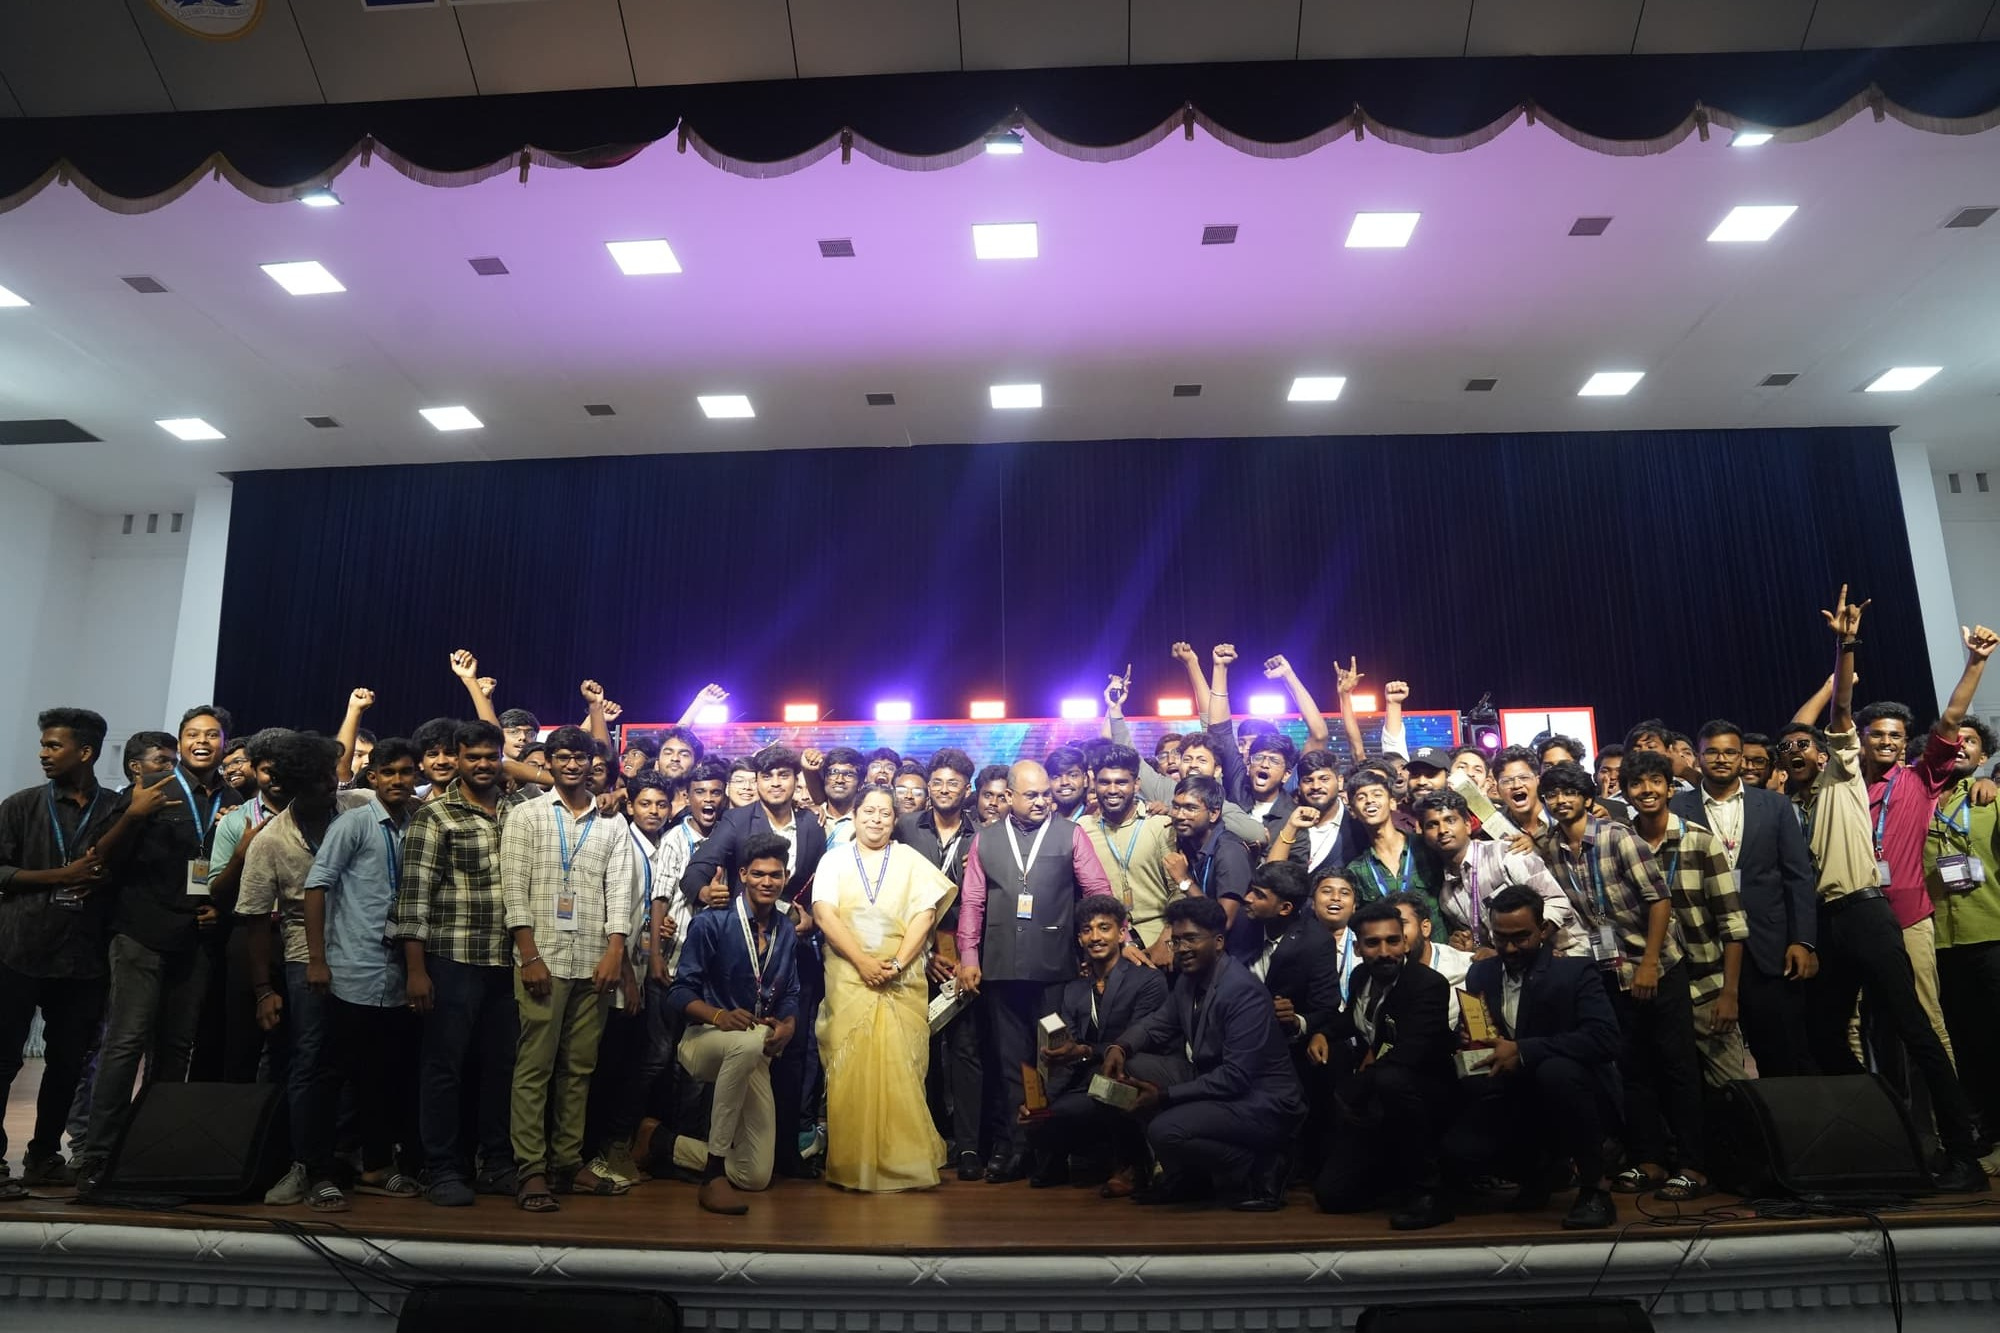
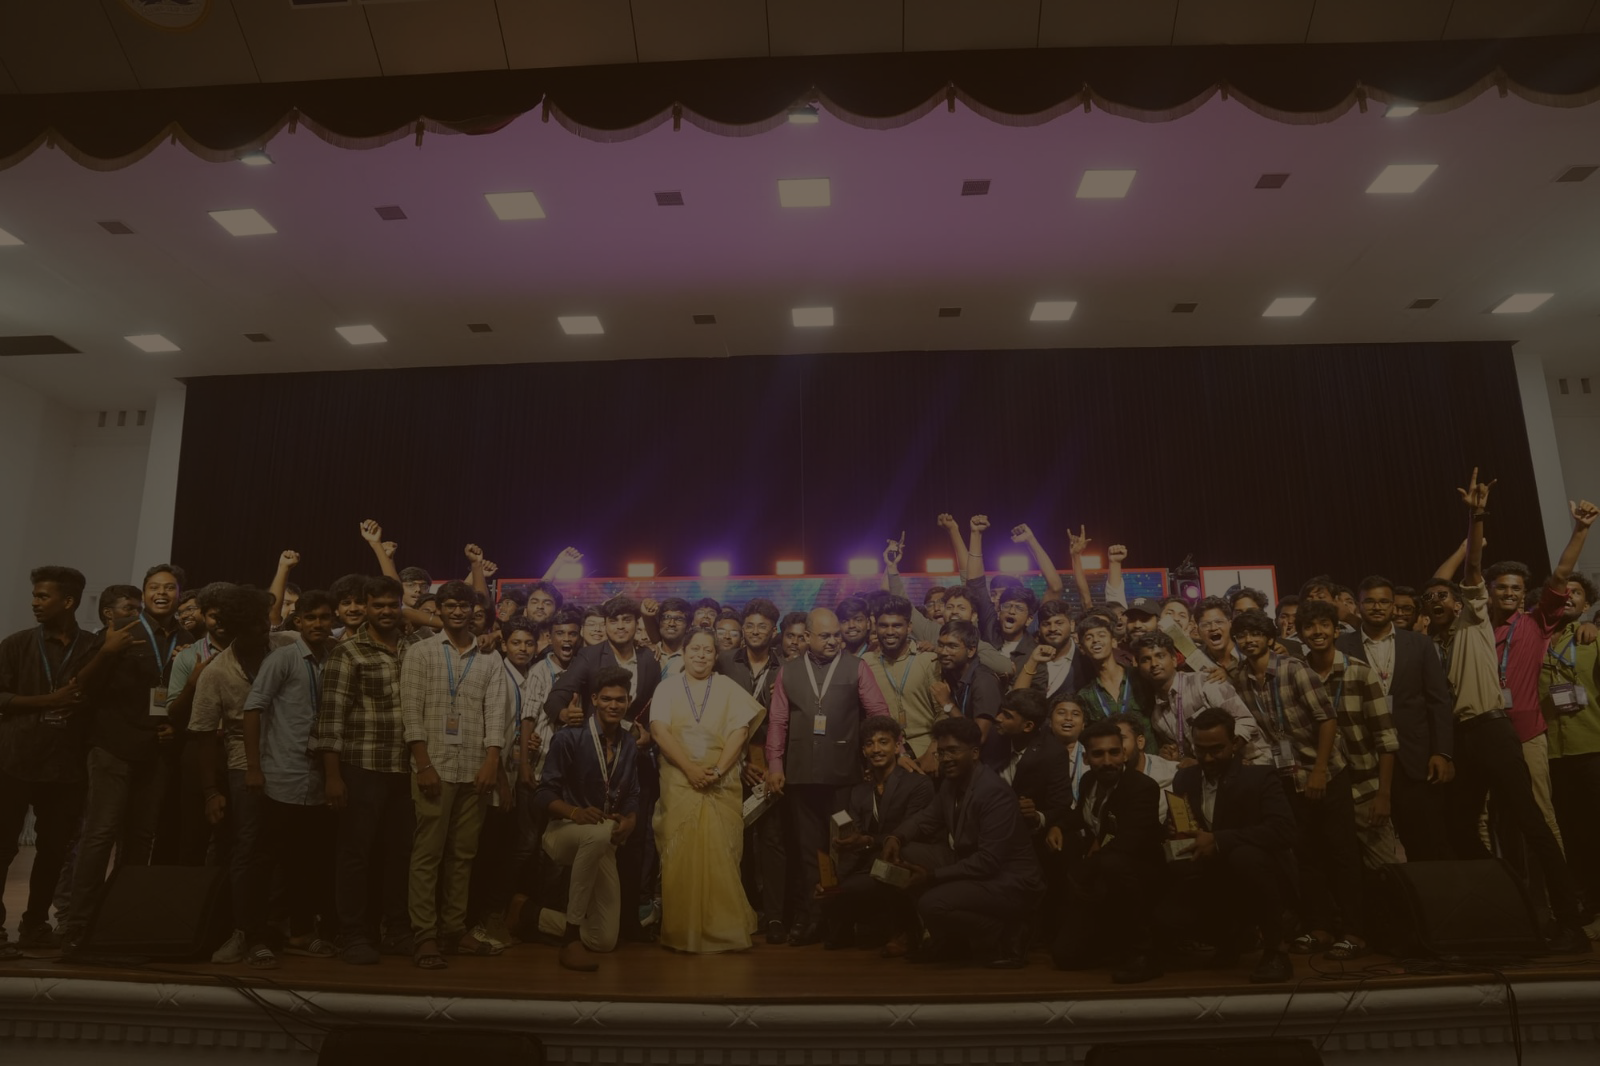
photot

diff --git a/app/gallery/GalleryClient.tsx b/app/gallery/GalleryClient.tsx
@@ -2,6 +2,7 @@
 
 import { useEffect, useState } from "react";
 import { motion, useScroll, useTransform } from "framer-motion";
+import Image from "next/image";
 import { GalleryHorizontal } from "lucide-react";
 import { BentoGalleryGrid } from "@/components/ui/bento-gallery-grid";
 import { sessionShuffle } from "@/lib/sessionShuffle";
@@ -29,9 +30,26 @@ export function GalleryClient({ initialImages }: { initialImages: string[] }) {
     <div className="w-full snap-y snap-mandatory selection:bg-[#C9A24D]/30 selection:text-[#F1EEE8]">
       {/* ================= HERO SECTION ================= */}
       <section className="h-screen w-full flex items-center justify-center text-center bg-[#1A1A1A] text-[#F1EEE8] snap-start snap-always relative overflow-hidden rounded-b-[4rem] shadow-[0_0_50px_rgba(201,162,77,0.1)] z-20 border-b border-[#8C6A3D]/30">
+
+        {/* BACKGROUND IMAGE */}
+        <div className="absolute inset-0 z-0">
+          <Image
+            src="/BackgroundImages/Gallery.png"
+            alt="Milan Gallery Background"
+            fill
+            className="object-cover opacity-70"
+            priority
+          />
+          {/* Overlay for text readability */}
+          <div className="absolute inset-0 bg-black/60" />
+
+          {/* Subtle Vignette */}
+          <div className="absolute inset-0 bg-[radial-gradient(circle_at_center,transparent_0%,rgba(0,0,0,0.4)_100%)] pointer-events-none" />
+        </div>
+
         {/* Ambient glow (Gold/Bronze - Subtle) */}
-        <div className="absolute top-[-20%] left-[-10%] w-[60%] h-[60%] bg-[#C9A24D]/5 blur-[140px] rounded-full" />
-        <div className="absolute bottom-[-20%] right-[-10%] w-[60%] h-[60%] bg-[#8C6A3D]/5 blur-[140px] rounded-full" />
+        <div className="absolute top-[-20%] left-[-10%] w-[60%] h-[60%] bg-[#C9A24D]/10 blur-[140px] rounded-full z-0" />
+        <div className="absolute bottom-[-20%] right-[-10%] w-[60%] h-[60%] bg-[#8C6A3D]/10 blur-[140px] rounded-full z-0" />
 
         <div className="relative z-10 px-6">
           <motion.div
